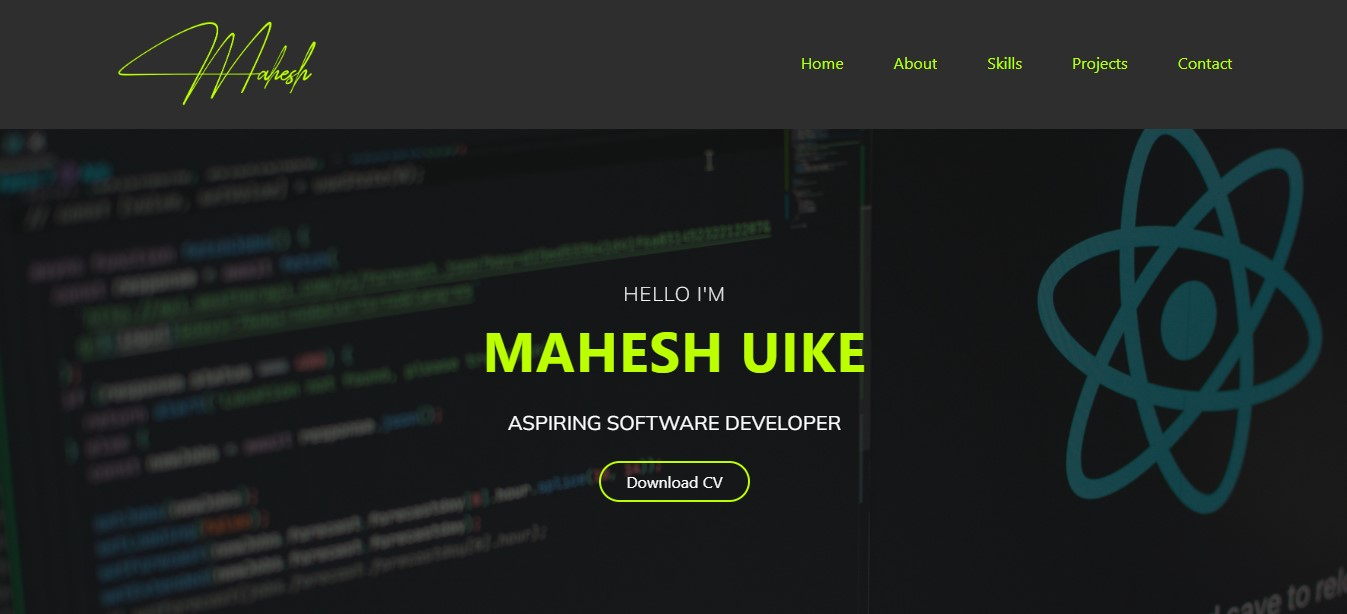
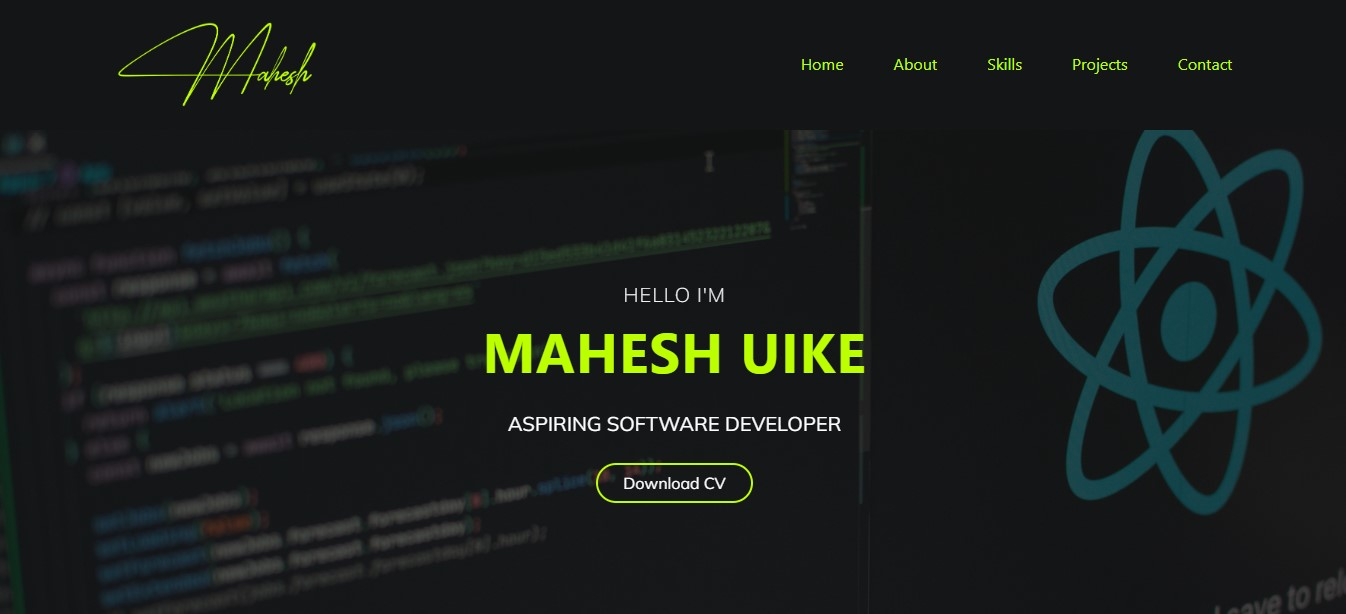
Updated Code

diff --git a/src/components/projects/Projects.js b/src/components/projects/Projects.js
@@ -1,6 +1,8 @@
 import React from 'react'
 import './projects.css'
 import proj from '../../assets/portfolio-proj.jpg'
+import msg_proj from '../../assets/messenger-proj.jpg'
+import pet_proj from '../../assets/pet-proj.jpg'
 
 export default function Projects() {
   return (
@@ -8,18 +10,29 @@ export default function Projects() {
       <div className="container">
         <div className="row justify-content-between">
           <p id='proj-head'>Projects</p>
-          <div className="col-lg-6 proj-box">
+          <div className="col-lg-6 col-sm-12 proj-box">
             <p className='proj-title'>Portfoilo Design</p>
             <img className='img-fluid mb-3' src={proj} alt="..." />
             <div className='' style={{margin:"-1rem 0 0 0"}}>
               <button className='btn-more'>More Details</button>
               <a href="https://github.com/MaheshUike43/Portfolio.git"><i className='bi bi-github'></i></a>
-
             </div>
-
           </div>
-          <div className="col-lg-6 proj-box">
-
+          <div className="col-lg-6 col-sm-12 proj-box">
+            <p className='proj-title'>TAE Messenger</p>
+            <img className='img-fluid mb-3' src={msg_proj} alt="..." />
+            <div className='' style={{margin:"-1rem 0 0 0"}}>
+              <button className='btn-more'>More Details</button>
+              <a href="https://github.com/MaheshUike43/College-Media-Messenger.git"><i className='bi bi-github'></i></a>
+            </div>
+          </div>
+          <div className="col-lg-6 col-sm-12 proj-box">
+            <p className='proj-title'>PET Re-Adopt</p>
+            <img className='img-fluid mb-3' src={pet_proj} alt="..." />
+            <div className='' style={{margin:"-1rem 0 0 0"}}>
+              <button className='btn-more'>More Details</button>
+              <a href="https://github.com/MaheshUike43/PET-ReAdopt.git"><i className='bi bi-github'></i></a>
+            </div>
           </div>
         </div>
       </div>

diff --git a/src/components/projects/projects.css b/src/components/projects/projects.css
@@ -1,16 +1,16 @@
 #Projects-Sec{
-    background-color:#bbff00;
+    background-color:#2D2E2E;
     width: 100%;
     position: relative;
     top: 131.42px;
     padding-top: 3rem;
-    padding-bottom: 3rem;
+    padding-bottom: 4rem;
     font-family: 'Mulish', sans-serif;
 
 }
 
 #proj-head{
-    color: #000000;
+    color: #BBFF00;
     font-size: 30px;
     font-weight: 700;
     text-align: center;
@@ -19,11 +19,10 @@
 
 .proj-box{
     width: 48%;
-    border: 2px solid #000000;
 }
 
 .proj-title{
-    color: #000000;
+    color: #BBFF00;
     font-size: 20px;
     font-weight: 700;
     text-align: center;
@@ -31,33 +30,43 @@
     margin-bottom: 1rem;
 }
 
-.proj-box:hover {
-    width: 48%;
-
+.proj-box img:hover{
+    box-shadow: #000000 0px 0px 10px;
 }
 
 .btn-more{
     border-radius: 50px;
-    color: rgb(0, 0, 0);
-    background-color: transparent;
-    border: 2px solid #000000;
+    color: #000000;
+    background-color: #ffffff;
+    border: none;
     padding: 7px 26px;
     margin-bottom: 1rem;
+}
 
-    
+.btn-more:hover{
+    background-color: #BBFF00;
+    box-shadow: #BBFF00 0px 0px 5px;
 }
 
 .proj-box i{
     text-decoration: none;
     font-size: 40px;
-    color: #000000;
+    color: #ffffff;
     padding-left: 20px;
     position: relative;
     top: 10px;
 }
 
+.proj-box i:hover{
+    color: #BBFF00;
+}
+
 @media screen and (max-width: 768px) {
     #Projects-Sec{
         top: 0px;
+    }
+
+    .proj-box{
+        width: 100%;
     }
 }

diff --git a/src/components/contact/Contact.js b/src/components/contact/Contact.js
@@ -43,8 +43,8 @@ export default function Contact() {
               <a href="https://www.linkedin.com/in/mahesh-uike-0345/"><i className='bi bi-linkedin'></i></a>
               <a href="https://www.facebook.com/maheshuike30/"><i className='bi bi-facebook'></i></a>
               <a href="https://instagram.com/_mahesh.3_/"><i className='bi bi-instagram'></i></a>
-              <a href=""><i className='bi bi-twitter'></i></a>
-              <a href=""><i className='bi bi-telegram'></i></a>
+              <a href="https://twitter.com/"><i className='bi bi-twitter'></i></a>
+              <a href="https://t.me/Mah123U/"><i className='bi bi-telegram'></i></a>
             </div>
           </div>
         </div>

diff --git a/src/components/menu/menu.css b/src/components/menu/menu.css
@@ -1,5 +1,5 @@
 #menu-bar {
-    background: #2d2e2e;
+    background: #141516;
     /* background: #ffffff; */
     position: fixed;
     top: 0px;
